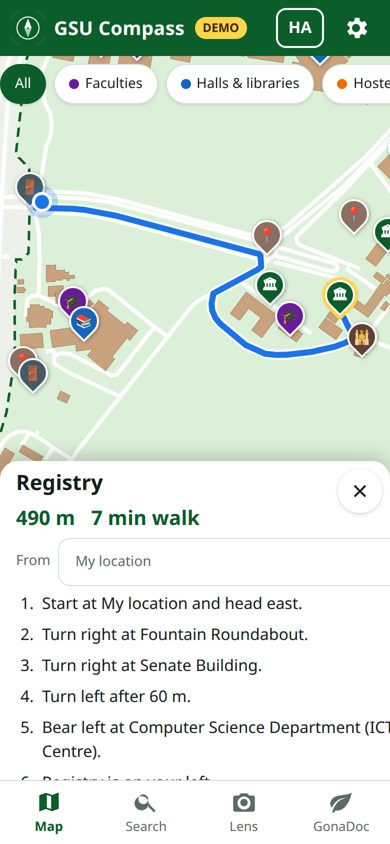
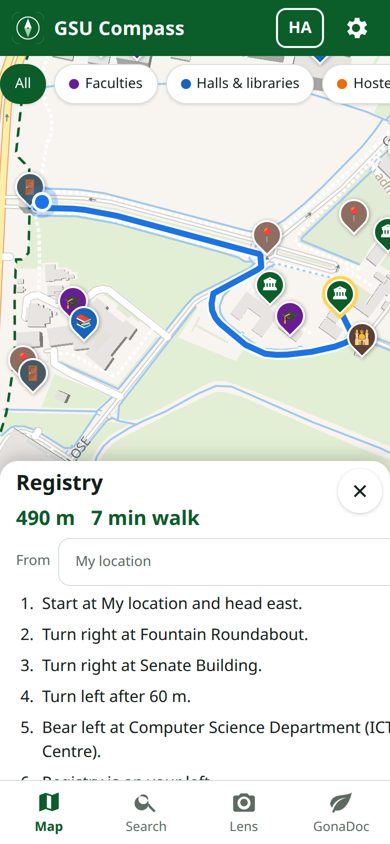
Remove demo mode: no DEMO label, /demo page, sample photo buttons, recorded answers or fixed location; leaf photos kept as test fixtures

Changed region(s): [[0.0, 0.0, 1.0, 0.5545], [0.7692, 0.4929, 1.0, 0.5545]]

diff --git a/static/js/gonadoc.js b/static/js/gonadoc.js
@@ -1,5 +1,5 @@
 // GonaDoc: photograph a crop leaf, Gemma names the likely disease or pest and suggests cheap treatment first.
-import { S, esc, status } from './state.js';
+import { esc, status } from './state.js';
 import { t, lang } from './i18n.js';
 import { api } from './api.js';
 import { compress, showPreview } from './img.js';
@@ -13,7 +13,7 @@ function paintLang() {
   $('gd-lang').querySelectorAll('[data-lang]').forEach((b) => b.classList.toggle('on', b.dataset.lang === gdLang()));
 }
 
-async function diagnose(blob, sampleId = '') {
+async function diagnose(blob) {
   const st = $('gd-status'), out = $('gd-result');
   out.innerHTML = '';
   showPreview($('gd-preview'), blob);
@@ -22,7 +22,6 @@ async function diagnose(blob, sampleId = '') {
   form.append('photo', blob, 'leaf.jpg');
   form.append('crop', $('gd-crop').value);
   form.append('lang', gdLang());
-  form.append('sample_id', sampleId);
   try {
     render(await api('/api/gonadoc', { form, timeout: 60000 }));
     st.scrollIntoView({ behavior: 'smooth', block: 'start' });
@@ -72,15 +71,4 @@ export function initGonaDoc() {
   });
   paintLang();
   document.addEventListener('langchange', paintLang);
-  const samples = S.config.demo_samples?.gonadoc || [];
-  if (S.demo && samples.length) {
-    $('gd-samples').hidden = false;
-    $('gd-samples').querySelector('.sample-row').innerHTML = samples.map((s) => `<button data-sample="${esc(s.id)}"><img src="/${esc(s.image)}" alt=""><span>${esc(s.label)}</span></button>`).join('');
-    $('gd-samples').addEventListener('click', (e) => {
-      const b = e.target.closest('[data-sample]');
-      if (!b) return;
-      const s = samples.find((x) => x.id === b.dataset.sample);
-      fetch('/' + s.image).then((r) => r.blob()).then((blob) => diagnose(blob, s.id));
-    });
-  }
 }

diff --git a/static/index.html b/static/index.html
@@ -16,7 +16,6 @@
   <header class="topbar">
     <img class="logo" src="/icons/icon-192.png" alt="">
     <h1 data-i18n="app_name">GSU Compass</h1>
-    <span class="badge" id="demo-badge" hidden data-i18n="demo_badge">DEMO</span>
     <span class="spacer"></span>
     <button class="lang" id="lang-btn" aria-label="Language">HA</button>
     <button class="icon-btn" id="admin-btn" aria-label="Admin" hidden>
@@ -84,7 +83,6 @@
         <label class="btn primary big"><input type="file" accept="image/*" capture="environment" id="lens-camera" hidden><span data-i18n="lens_take">Take a photo</span></label>
         <label class="btn ghost big"><input type="file" accept="image/*" id="lens-file" hidden><span data-i18n="lens_upload">Choose from gallery</span></label>
       </div>
-      <div class="samples" id="lens-samples" hidden><p class="muted small" data-i18n="lens_samples">Demo photos</p><div class="sample-row"></div></div>
       <div class="preview" id="lens-preview"></div>
       <div id="lens-status" class="status"></div>
       <div id="lens-result" class="results"></div>
@@ -109,7 +107,6 @@
         <label class="btn primary big"><input type="file" accept="image/*" capture="environment" id="gd-camera" hidden><span data-i18n="gd_take">Take leaf photo</span></label>
         <label class="btn ghost big"><input type="file" accept="image/*" id="gd-file" hidden><span data-i18n="gd_upload">Upload photo</span></label>
       </div>
-      <div class="samples" id="gd-samples" hidden><p class="muted small" data-i18n="gd_samples">Demo leaves</p><div class="sample-row"></div></div>
       <p class="disclaimer" data-i18n="gd_disclaimer"></p>
       <div class="preview" id="gd-preview"></div>
       <div id="gd-status" class="status"></div>

diff --git a/static/css/app.css b/static/css/app.css
@@ -31,7 +31,6 @@ h1, h2, h3 { margin: 0; line-height: 1.2; }
 .topbar { position: fixed; inset: 0 0 auto; height: var(--top); display: flex; align-items: center; gap: 10px; padding: 0 12px; background: var(--green); color: #fff; z-index: 30; padding-top: env(safe-area-inset-top, 0px); }
 .topbar h1 { font-size: 19px; font-weight: 700; letter-spacing: .2px; }
 .logo { width: 32px; height: 32px; border-radius: 8px; background: #fff; }
-.badge { background: #ffd54a; color: #3a2a00; font-size: 12px; font-weight: 700; padding: 2px 8px; border-radius: 99px; }
 .lang { min-width: 48px; height: 40px; border: 2px solid #fff; background: transparent; color: #fff; border-radius: 10px; font-weight: 700; }
 .icon-btn { width: 44px; height: 44px; border: 0; background: transparent; padding: 8px; }
 .icon-btn svg { width: 100%; height: 100%; fill: #fff; }
@@ -130,10 +129,6 @@ label.row select { width: auto; }
 
 .preview { display: flex; gap: 8px; flex-wrap: wrap; }
 .preview img { max-height: 160px; max-width: 100%; border-radius: 12px; }
-.samples .sample-row { display: flex; gap: 8px; overflow-x: auto; }
-.samples button { border: 2px solid var(--line); border-radius: 12px; padding: 0; background: none; flex: none; width: 104px; overflow: hidden; }
-.samples img { width: 100%; height: 72px; object-fit: cover; display: block; }
-.samples span { display: block; font-size: 12px; padding: 4px; }
 
 .admin form { display: grid; gap: 10px; }
 .toast { position: fixed; left: 50%; bottom: calc(var(--nav) + var(--safe-b) + 16px); transform: translateX(-50%); background: #1d2a22; color: #fff; padding: 10px 16px; border-radius: 12px; z-index: 50; max-width: calc(100% - 32px); font-size: 15px; box-shadow: 0 3px 10px rgba(0,0,0,.3); }

diff --git a/static/js/lens.js b/static/js/lens.js
@@ -6,7 +6,7 @@ import { compress, showPreview } from './img.js';
 
 const $ = (id) => document.getElementById(id);
 
-async function identify(blob, pos, sampleId = '') {
+async function identify(blob, pos) {
   const st = $('lens-status'), out = $('lens-result');
   out.innerHTML = '';
   showPreview($('lens-preview'), blob);
@@ -15,7 +15,6 @@ async function identify(blob, pos, sampleId = '') {
   form.append('photo', blob, 'photo.jpg');
   if (pos) { form.append('lat', pos.lat); form.append('lng', pos.lng); }
   form.append('lang', lang);
-  form.append('sample_id', sampleId);
   try {
     render(await api('/api/identify', { form, timeout: 60000 }));
     st.scrollIntoView({ behavior: 'smooth', block: 'start' });
@@ -62,16 +61,6 @@ export function initLens() {
     const go = e.target.closest('[data-go]');
     if (go) return actions.startRoute(go.dataset.go);
     const row = e.target.closest('[data-place]');
-    if (row) return actions.showPlace(row.dataset.place);
-    const s = e.target.closest('[data-sample]');
-    if (s) {
-      const sample = S.config.demo_samples.lens.find((x) => x.id === s.dataset.sample);
-      fetch('/' + sample.image).then((r) => r.blob()).then((b) => identify(b, { lat: sample.lat, lng: sample.lng }, sample.id));
-    }
+    if (row) actions.showPlace(row.dataset.place);
   });
-  const samples = S.config.demo_samples?.lens || [];
-  if (S.demo && samples.length) {
-    $('lens-samples').hidden = false;
-    $('lens-samples').querySelector('.sample-row').innerHTML = samples.map((s) => `<button data-sample="${esc(s.id)}"><img src="/${esc(s.image)}" alt=""><span>${esc(s.label)}</span></button>`).join('');
-  }
 }

diff --git a/static/js/app.js b/static/js/app.js
@@ -37,11 +37,6 @@ actions.reloadPlaces = async () => {
 
 // ---------------------------------------------------------------- GPS
 function startGps() {
-  if (S.demo && S.config.demo_gps) {
-    S.gps = { ...S.config.demo_gps, acc: 10, fake: true };
-    showMe(S.gps);
-    return;
-  }
   if (!navigator.geolocation) { S.gpsNote = 'no_gps'; return; }
   if (!window.isSecureContext) { S.gpsNote = 'gps_insecure'; return; }
   navigator.geolocation.watchPosition(
@@ -150,7 +145,6 @@ async function boot() {
   S.config = config;
   S.intents = intents;
   setPlaces(places);
-  if (S.demo) $('demo-badge').hidden = false;
 
   document.querySelectorAll('[data-close]').forEach((b) => b.addEventListener('click', () => { $(b.dataset.close).hidden = true; }));
   $('nav').addEventListener('click', (e) => { const b = e.target.closest('[data-view]'); if (b) showView(b.dataset.view); });

diff --git a/static/sw.js b/static/sw.js
@@ -1,7 +1,7 @@
 // Offline support: the app shell and campus data are cached; photos and map tiles are cached as they are seen.
-const VERSION = 'gsu-compass-v1';
+const VERSION = 'gsu-compass-v2';
 const SHELL = [
-  '/', '/demo', '/index.html', '/css/app.css', '/i18n.json', '/manifest.webmanifest',
+  '/', '/index.html', '/css/app.css', '/i18n.json', '/manifest.webmanifest',
   '/js/app.js', '/js/state.js', '/js/i18n.js', '/js/api.js', '/js/img.js', '/js/map.js', '/js/route.js', '/js/search.js', '/js/lens.js', '/js/gonadoc.js', '/js/admin.js',
   '/vendor/maplibre-gl.js', '/vendor/maplibre-gl.css', '/icons/icon-192.png',
   '/api/config', '/api/places', '/api/intents', '/api/geo/paths', '/api/geo/boundary', '/api/geo/buildings',

diff --git a/static/js/map.js b/static/js/map.js
@@ -13,7 +13,7 @@ const ONLINE_STYLE = 'https://tiles.openfreemap.org/styles/liberty';
 const OFFLINE_STYLE = { version: 8, sources: {}, layers: [{ id: 'bg', type: 'background', paint: { 'background-color': '#eef1ea' } }] };
 
 async function pickStyle() {
-  // OpenFreeMap when the network is there; otherwise our own campus map, so the demo never shows a blank screen
+  // OpenFreeMap when the network is there; otherwise our own campus map, so the map is never blank
   try {
     const ctl = new AbortController();
     const timer = setTimeout(() => ctl.abort(), 4000);

diff --git a/static/js/state.js b/static/js/state.js
@@ -6,8 +6,7 @@ export const S = {
   byId: new Map(),
   config: {},
   intents: [],
-  demo: location.pathname.startsWith('/demo'),
-  gps: null, // { lat, lng, acc, fake }
+  gps: null, // { lat, lng, acc }
   gpsNote: '',
 };
 

diff --git a/app/main.py b/app/main.py
@@ -54,10 +54,8 @@ def fnum(v: str | None) -> float | None:
 # ---------------------------------------------------------------- data
 @app.get("/api/config")
 def get_config():
-    demo = features.demo_data()
-    samples = {k: [{f: s[f] for f in ("id", "image", "label", "lat", "lng") if f in s} for s in demo.get(k, [])] for k in ("lens", "gonadoc")}
     return {"ai": gemma.ready, "model": gemma.model or None, "center": config.CENTER, "admin": bool(config.ADMIN_PIN),
-            "identify_radius_m": config.IDENTIFY_RADIUS_M, "demo_gps": demo.get("meta", {}).get("gps"), "demo_samples": samples}
+            "identify_radius_m": config.IDENTIFY_RADIUS_M}
 
 
 @app.get("/api/places")
@@ -113,28 +111,22 @@ async def rewrite(body: StepsIn):
 
 # ---------------------------------------------------------------- Lens
 @app.post("/api/identify")
-async def identify(photo: UploadFile = File(...), lat: str = Form(""), lng: str = Form(""), lang: str = Form("en"), sample_id: str = Form("")):
+async def identify(photo: UploadFile = File(...), lat: str = Form(""), lng: str = Form(""), lang: str = Form("en")):
     jpeg = await read_photo(photo)
     la, ln = fnum(lat), fnum(lng)
     try:
         return await features.identify(jpeg, la, ln, lang)
     except AIError as e:
-        canned = features.demo_answer("lens", sample_id, lang) if sample_id else None
-        if canned:
-            return canned
         return {**features.nearest_guesses(la, ln), "error": str(e)}
 
 
 # ---------------------------------------------------------------- GonaDoc
 @app.post("/api/gonadoc")
-async def gonadoc(photo: UploadFile = File(...), crop: str = Form(""), lang: str = Form("en"), sample_id: str = Form("")):
+async def gonadoc(photo: UploadFile = File(...), crop: str = Form(""), lang: str = Form("en")):
     jpeg = await read_photo(photo)
     try:
         return await features.diagnose(jpeg, crop, lang)
     except AIError as e:
-        canned = features.demo_answer("gonadoc", sample_id, lang) if sample_id else None
-        if canned:
-            return canned
         return JSONResponse({"error": str(e)}, status_code=503)
 
 
@@ -188,11 +180,6 @@ async def admin_place(pin: str = Form(...), id: str = Form(""), name: str = Form
 
 
 # ---------------------------------------------------------------- the web app
-@app.get("/demo")
-def demo_page():
-    return FileResponse(config.STATIC / "index.html")
-
-
 @app.get("/sw.js")
 def service_worker():
     return FileResponse(config.STATIC / "sw.js", media_type="text/javascript", headers={"Cache-Control": "no-cache"})

diff --git a/app/features.py b/app/features.py
@@ -208,17 +208,3 @@ async def diagnose(photo: bytes, crop_hint: str, lang: str) -> dict:
     )
     r = await gemma.ask([prompt, image_part(photo)], Diagnosis)
     return {**r.model_dump(), "confidence": round(r.confidence, 2), "source": "ai"}
-
-
-# ---------------------------------------------------------------- canned answers for the offline demo
-@lru_cache(maxsize=1)
-def demo_data() -> dict:
-    return json.loads((config.DATA / "demo.json").read_text(encoding="utf-8"))
-
-
-def demo_answer(kind: str, sample_id: str, lang: str) -> dict | None:
-    for s in demo_data().get(kind, []):
-        if s["id"] == sample_id:
-            ans = s.get("answer_ha" if lang == "ha" else "answer") or s.get("answer")
-            return {**ans, "source": "demo"}
-    return None

diff --git a/app/gemma.py b/app/gemma.py
@@ -88,7 +88,7 @@ class Gemma:
     async def _ask(self, parts: list, schema: type[T], max_tokens: int) -> T:
         """Hedged request: ask the main model; if it fails, or has not answered after HEDGE_AFTER seconds,
         ask the backup model as well and take whichever good answer comes first. Google's free tier is
-        sometimes slow or answers 500/504 for a while, and this keeps the demo moving."""
+        sometimes slow or answers 500/504 for a while, and this keeps answers coming."""
         backup = self.backup
         pending = {asyncio.create_task(self._ask_model(self.model, parts, schema, max_tokens))}
         hedged = backup is None

diff --git a/README.md b/README.md
@@ -7,7 +7,7 @@
 <img src="docs/screenshots/02-search.jpg" width="190" alt="Asking where to pay school fees">
 <img src="docs/screenshots/03-route.jpg" width="190" alt="Walking route with turn-by-turn steps">
 <img src="docs/screenshots/05-lens.jpg" width="190" alt="Lens identifies the Main Library from a photo">
-<img src="docs/screenshots/06-gonadoc.jpg" width="190" alt="GonaDoc diagnosing a maize leaf in Hausa">
+<img src="docs/screenshots/06-gonadoc.jpg" width="190" alt="GonaDoc diagnosing a tomato leaf in Hausa">
 </p>
 
 ## The problem
@@ -29,13 +29,14 @@ Around the campus, smallholder farmers lose maize, tomato, groundnut, sorghum, r
 
 The whole interface switches between **English and Hausa**, and AI answers come back in the chosen language.
 
-## Built to survive a live demo
+## Built not to fail
 
 - Every Gemma call asks for JSON matching a strict schema, has a timeout, and turns any failure into a friendly message. If a model refuses structured-output mode, the schema moves into the prompt and the reply is validated on the server.
 - Search keeps working with no AI at all: keyword rules (`data/intents.json`) answer the common questions, in the browser if the server is unreachable.
 - When Lens cannot reach the AI it still shows the places nearest to you.
 - Photos are shrunk on the phone to 1024 px before upload.
-- **`/demo`** runs with a fixed position at the Main Gate, sample building photos and sample leaves. If the network or the AI is down, it falls back to recorded answers for those samples. If OpenFreeMap tiles cannot load, the map switches to an offline campus basemap (boundary, 275 building footprints, footpaths) shipped with the app.
+- Each AI request goes to Gemma 4 26B first; if it is slow or fails, the 31B model is asked as well and the first good answer wins. Answers are length-capped and checked, so a model stuck repeating itself is caught.
+- If OpenFreeMap tiles cannot load, the map switches to an offline campus basemap (boundary, 275 building footprints, footpaths) shipped with the app, and routing keeps working.
 - PWA: installable, and the app shell, places and map data are cached for offline use.
 
 ## Run it
@@ -49,7 +50,7 @@ cp .env.example .env        # add GEMINI_API_KEY (https://aistudio.google.com/ap
 uvicorn app.main:app --host 0.0.0.0 --port 8000
 ```
 
-Open http://localhost:8000, or http://localhost:8000/demo for the pitch version.
+Open http://localhost:8000.
 
 At startup the server lists the models your key can use and picks the best Gemma 4 one: 26B, then 31B, then E4B (the 26B mixture-of-experts model is the fastest of the large ones). The choice is logged and shown at `/healthz`. Set `GEMMA_MODEL` in `.env` to force one.
 
@@ -66,7 +67,7 @@ Put the phone on the same Wi-Fi, open the printed address, tap **Advanced** then
 ### Tests
 
 ```bash
-# phone-sized browser run through every tab, in demo mode, with ADMIN_PIN=2468
+# phone-sized browser run through every tab (uploads the photos in tests/fixtures), with ADMIN_PIN=2468
 PLAYWRIGHT=/path/to/node_modules/playwright-core node tests/smoke.cjs http://localhost:8000
 ```
 
@@ -91,7 +92,7 @@ phone browser (plain HTML/CSS/JS, no build step)              FastAPI (one proce
 │ image compression (1024 px)              │──────────▶ │ /api/identify      │  Studio    │
 │ i18n.json (English / Hausa)              │            │ /api/gonadoc      ─┘ (google-   │
 │ service worker (offline, install)        │            │ /api/admin/*  (PIN)    genai)   │
-└──────────────────────────────────────────┘            │ static files, /demo             │
+└──────────────────────────────────────────┘            │ static files                    │
                                                         └─────────────────────────────────┘
 ```
 
@@ -99,7 +100,7 @@ phone browser (plain HTML/CSS/JS, no build step)              FastAPI (one proce
 |---|---|
 | `app/main.py` | Routes, upload handling, admin PIN, error handler |
 | `app/gemma.py` | Model selection, JSON schema calls, timeouts, fallbacks |
-| `app/features.py` | Prompts and logic for search, step rewriting, Lens and GonaDoc; demo answers |
+| `app/features.py` | Prompts and logic for search, step rewriting, Lens and GonaDoc |
 | `static/js/` | `map.js` map and markers, `route.js` graph and directions, `search.js`, `lens.js`, `gonadoc.js`, `admin.js`, `app.js` start-up |
 | `data/places.json` | The places (id, name, aliases, category, lat, lng, description, opening_hours, reference_photos, approximate) |
 | `data/paths.geojson` | Walkable lines for routing |
